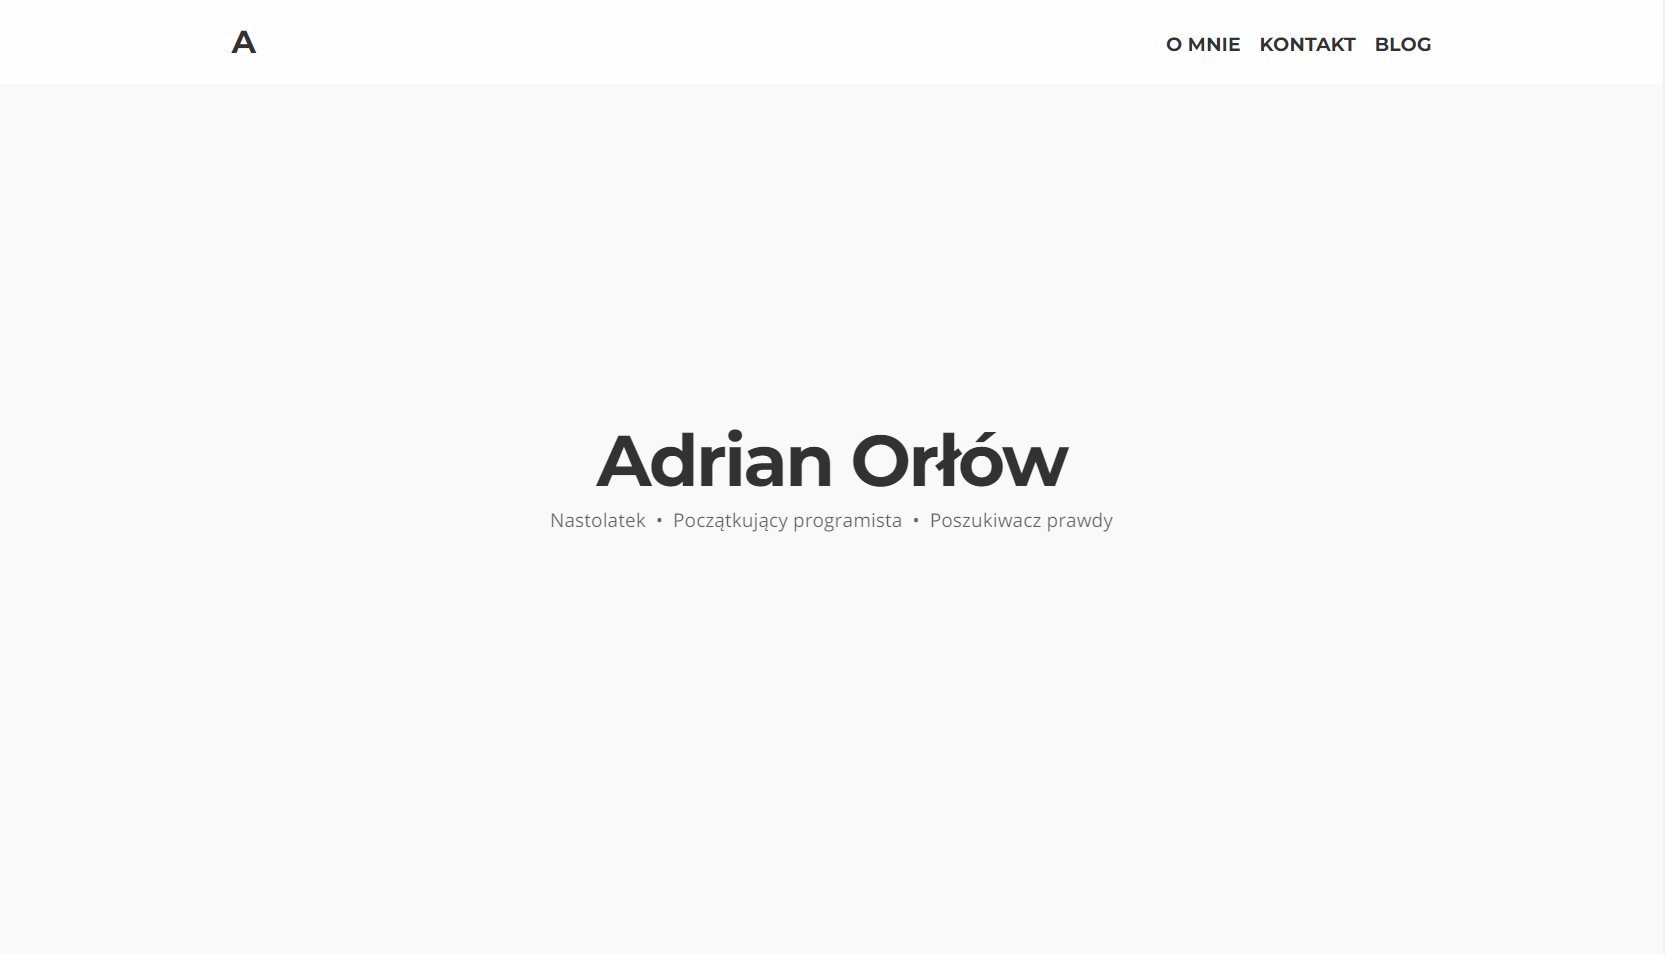
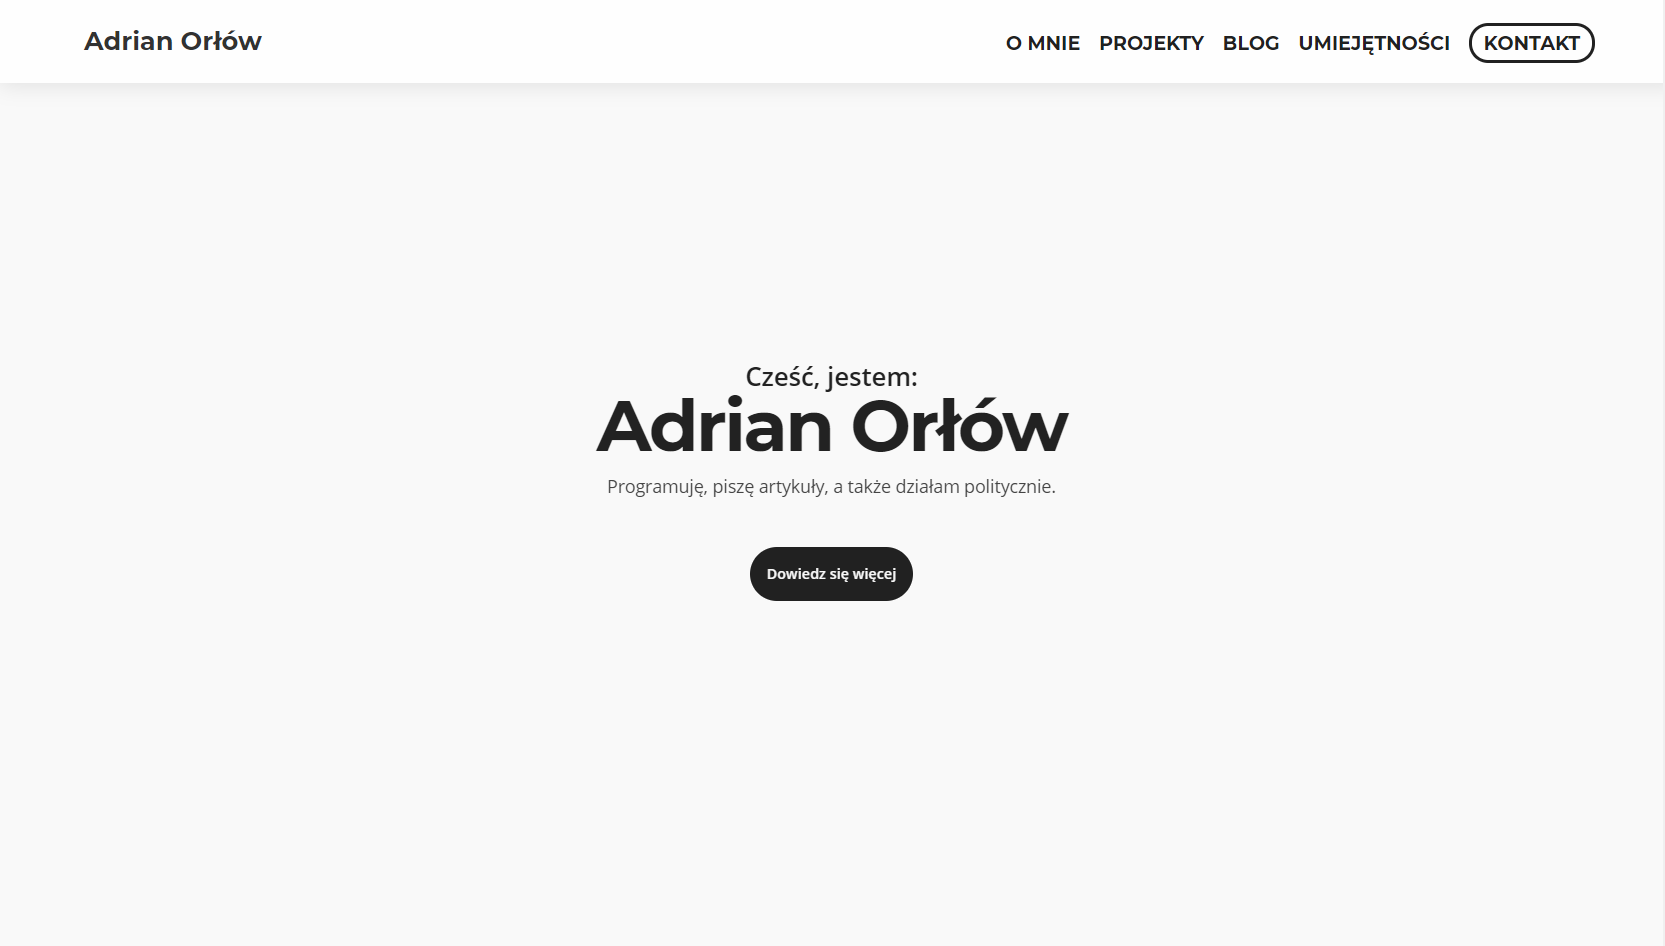
Small fix orlow.me

Changed region(s): [[0.3435, 0.3679, 0.6559, 0.6438], [0.5934, 0.0, 0.9682, 0.092], [0.0312, 0.0307, 0.1562, 0.0613]]

diff --git a/dist/css/style.min.css b/dist/css/style.min.css
@@ -1,1 +1,1 @@
-.contact__btn,.hamburger--link,.nav--link{text-transform:uppercase}a,abbr,acronym,address,applet,article,aside,audio,b,big,blockquote,body,canvas,caption,center,cite,code,dd,del,details,dfn,div,dl,dt,em,embed,fieldset,figcaption,figure,footer,form,h1,h2,h3,h4,h5,h6,header,hgroup,html,i,iframe,img,ins,kbd,label,legend,li,mark,menu,nav,object,ol,output,p,pre,q,ruby,s,samp,section,small,span,strike,strong,sub,summary,sup,table,tbody,td,tfoot,th,thead,time,tr,tt,u,ul,var,video{margin:0;padding:0;border:0;font:inherit;vertical-align:baseline}article,aside,details,figcaption,figure,footer,header,hgroup,menu,nav,section{display:block}body{line-height:1;-webkit-text-size-adjust:none;font-family:Montserrat,sans-serif;background:#fafafa}ol,ul{list-style:none}blockquote,q{quotes:none}blockquote:after,blockquote:before,q:after,q:before{content:'';content:none}table{border-collapse:collapse;border-spacing:0}a{text-decoration:none;color:#333}.a--light,.a--light:visited{color:#fafafa}.a--light:hover{text-decoration:underline}button:focus,input:focus,select:focus,textarea:focus{outline:0}input:focus::-webkit-input-placeholder{opacity:0}.header{position:fixed;top:0;line-height:80px;font-size:2em;font-weight:700;color:#333;background:#fff;z-index:10;box-shadow:0 2px 35px 0 rgba(0,0,0,.1);width:100vw}.header--container{display:flex;align-items:center;justify-content:space-between;margin:0 auto;padding:0;height:100%;width:100%;max-width:90%}.header--title{font-size:.8em}.nav--element{display:inline;margin-left:.3em}.nav--link{font-size:.6em;color:#222}.nav--link:active,.nav--link:focus,.nav--link:hover{border-width:0 0 3px;border-style:solid;border-color:rgba(51,51,51,1);outline:0;cursor:pointer}.link--last{padding:.3em .66em;border:2.5px solid #222;border-radius:1em;transition:.2s ease-in-out}.link--last:hover{border:2.5px solid #222;outline:initial;background:#222;color:#fafafa}.nav--hamburger a:first-child{z-index:1000}.nav--hamburger__content{height:100%;width:100%;z-index:100;background:#f5f5f5;position:fixed;top:0;right:0;bottom:0;left:0;display:flex;-webkit-box-orient:vertical;-webkit-box-direction:normal;-ms-flex-direction:column;flex-direction:column;-webkit-box-pack:center;-ms-flex-pack:center;justify-content:center;-webkit-box-align:center;-ms-flex-align:center;align-items:center;transition:.2s ease-in-out}.hamburger--link{font-size:.8em;font-weight:600;display:block;text-align:center}.hamburger--btn{width:1.06em;height:.8em;position:relative;-webkit-transform:rotate(0);-moz-transform:rotate(0);-o-transform:rotate(0);transform:rotate(0);-webkit-transition:.5s ease-in-out;-moz-transition:.5s ease-in-out;-o-transition:.5s ease-in-out;transition:.5s ease-in-out;cursor:pointer;z-index:1000}.hamburger--btn span{display:block;position:absolute;height:6px;width:100%;background:#222;border-radius:9px;opacity:1;left:0;-webkit-transform:rotate(0);-moz-transform:rotate(0);-o-transform:rotate(0);transform:rotate(0);-webkit-transition:.25s ease-in-out;-moz-transition:.25s ease-in-out;-o-transition:.25s ease-in-out;transition:.25s ease-in-out}.hamburger--btn span:nth-child(1){top:0}.hamburger--btn span:nth-child(2),.hamburger--btn span:nth-child(3){top:11px}.hamburger--btn span:nth-child(4){top:22px}.hamburger--btn.open span:nth-child(1),.hamburger--btn.open span:nth-child(4){top:18px;width:0%;left:50%}.hamburger--btn.open span:nth-child(2){-webkit-transform:rotate(45deg);-moz-transform:rotate(45deg);-o-transform:rotate(45deg);transform:rotate(45deg)}.hamburger--btn.open span:nth-child(3){-webkit-transform:rotate(-45deg);-moz-transform:rotate(-45deg);-o-transform:rotate(-45deg);transform:rotate(-45deg)}.section--container{max-width:90%;margin-right:auto;margin-left:auto;position:relative}.section{text-align:center;color:#333;height:auto;padding:5%}.section--title{font-size:2.3em;font-weight:700;text-align:center;margin-bottom:.4em}.section--separator{width:45px;height:2px;display:block;margin:auto auto 1.5em;border-radius:99px;background:#fff;opacity:.9}.section--subtitle{margin-bottom:3em;color:#adadad}.section--paragraph{margin-top:1.2em;font-size:1.3em;text-align:left;letter-spacing:.035em;word-spacing:.05em;line-height:1.2em;padding:0 5em}.section__hero{font-family:"Open Sans",sans-serif;color:#222;padding:0;height:100vh}.container--hero{top:50%;transform:translateY(-50%)}.hero--intro{font-size:1.6em;font-weight:600}.hero--title{font-family:Montserrat,sans-serif;font-size:4.5em;font-weight:700;letter-spacing:-.035em;line-height:1em}.hero--subtitle{font-size:1.1em;margin-top:1em;margin-bottom:4em;color:#444}.hero__btn{padding:1.2em;border-radius:2em;background:#222;font-weight:600;font-size:.9em;transition:.2s ease-in-out;color:#fafafa}.hero__btn:hover{border:3px solid #222;color:#222;background:rgba(0,0,0,0)}.section__dark{background:#222;color:#fafafa}.about{display:flex;align-items:center;justify-content:space-between;margin:0 auto;padding:0;height:100%;width:60%}.projects,.skills{display:flex;align-items:center}.about__el{cursor:pointer;height:auto;width:13em}.about__el:hover .img--about{border:5px solid #ececec}.about__el:active .img--about{border:5px solid #fff;-webkit-transform:scale(1.05);transform:scale(1.05)}.img--about{border-radius:100%;height:10em;width:auto;transition:.2s;border:5px solid transparent}.img--project,.project{transition:.2s ease-in-out}.p--about{font-size:1.2em;margin-top:1em;font-weight:600;color:#ececec}.article__title,.p--project{font-size:1.4em;font-weight:600}.projects{justify-content:space-between;margin:0 auto;padding:0;height:100%}.articles,.skills{justify-content:space-between}.p--project,.project{margin-top:1em}.project{height:17%;width:30%;cursor:pointer;margin-bottom:1em}.project:hover .img--project{transform:translateY(-3%);-webkit-box-shadow:0 10px 20px 0 rgba(209,209,209,1);-moz-box-shadow:0 10px 20px 0 rgba(209,209,209,1);box-shadow:0 10px 20px 0 rgba(209,209,209,1)}.articles,.skills{margin:2em auto 0;padding:0;height:100%}.img--project{height:100%;width:100%;border-radius:1em}.skills{width:70%}.articles,.contact{display:flex;align-items:center}.skill{width:10em;border-radius:2em}.articles{width:90%}.article{height:33%;width:25em;border-radius:.5em;overflow:hidden;background:#fff;cursor:pointer;transition:.2s;border:1px solid #ebebeb}.article:hover{-webkit-box-shadow:0 0 60px 0 rgba(0,0,0,.07);box-shadow:0 0 60px 0 rgba(0,0,0,.07)}.img--article{max-width:100%}.article__content{width:calc(85% - 2px);padding:7.5%;height:39%}.article__title{text-align:left;height:2em;max-height:2em;margin-bottom:1em}.article__lead{white-space:pre-line;max-height:5em;height:5em;text-overflow:ellipsis;margin-top:1em;text-align:left;font-size:1.1em}.article__btn{font-weight:600;text-align:left;margin-top:2em;color:#5a5a5a}.contact--map{width:100%;height:25em}.contact{justify-content:space-between;margin:2em auto 0;padding:0;height:100%;width:70%;flex-wrap:wrap}.contact__el--top{width:calc((100% - 30px)/ 2);position:relative}.contact__el--center{width:100%;position:relative;margin-top:1.5em}.contact__label{display:block;text-align:left;color:#555;line-height:1.5;font-weight:600}.contact__input{display:block;width:90%;background:#f2f2f2;color:#686868;transition:all .4s;border:none;padding:5%;font-size:1.4em;margin-top:.5em;border-radius:2px}.contact__input:focus{background:#e6e6e6;border:none}.contact__textarea{max-width:95%;min-width:95%;min-height:5em;font-family:Montserrat}.contact__el--center .contact__input{padding:2.5%;width:95%}.contact__btn{margin-top:1.5em;padding:1em;font-size:1.2em;font-weight:600;margin-left:auto;background:#eaeaea;cursor:pointer;-webkit-box-shadow:0 0 60px 0 rgba(0,0,0,.07);box-shadow:0 0 60px 0 rgba(0,0,0,.07);width:15%;transition:.2s ease-in-out;border-radius:2px}.contact__btn:hover{background:#dedede}.icon{text-decoration:none;position:relative}.icon:before{font-family:FontAwesome;font-style:normal;font-weight:400;text-transform:none!important}.icon>.label{display:none}.footer{background:#111;color:#fafafa;width:100%;height:10em;font-size:1.5em}.footer__links{display:flex;align-items:center;justify-content:center;font-size:1.5em;margin-left:0;vertical-align:middle;height:100%}.footer__links a li{padding:.4em;width:1em;text-align:center;border-radius:.5em;transition:.2s;cursor:pointer;margin-right:.2em}.footer__links li:hover{background:#222}.footer__links a li i{color:#ececec;text-decoration:none}.footer__links a:last-child li{margin-right:0}.hidden{display:none}@media (max-width:1600px){.article{width:23em}}@media (max-width:1500px){.article{width:22em}}@media (max-width:1400px){.article{width:21em}}@media (max-width:1300px){.about{width:70%}.skills{width:80%}.articles{width:75%}.articles a:last-child{display:none}.article{width:21em}}@media (max-width:1200px){.about{width:80%}.skills{width:90%}}@media (max-width:1100px){.about{width:100%}.articles{width:85%}}@media (max-width:1000px){.about{width:100%}.header--nav{display:none}.nav--hamburger{display:block}.skill{width:9.5em}.articles{width:100%}}@media (max-width:900px){.skill{width:8em}}@media (max-width:800px){.skill{width:7em;border-radius:1em}}@media (max-width:768px){.about,.articles,.projects{display:block}.about a .p--about,.article,.project{margin-bottom:2em}.article,.contact,.project{width:100%}.hero--title{font-size:3em}.hero--intro{font-size:1.4em}.hero--subtitle{font-size:.9em}.footer{font-size:1.2em}.header--container{max-width:85%}.section{padding:10% 0!important}.section--title{font-size:2em}.section--subtitle{font-size:.9em}.contact--map{height:15em}.contact__label{font-size:.8em}.contact__btn{width:20%}.skill{width:6em;border-radius:1em}}@media (max-width:550px){.skill{width:5em}}
+.contact__btn,.hamburger--link,.nav--link{text-transform:uppercase}a,abbr,acronym,address,applet,article,aside,audio,b,big,blockquote,body,canvas,caption,center,cite,code,dd,del,details,dfn,div,dl,dt,em,embed,fieldset,figcaption,figure,footer,form,h1,h2,h3,h4,h5,h6,header,hgroup,html,i,iframe,img,ins,kbd,label,legend,li,mark,menu,nav,object,ol,output,p,pre,q,ruby,s,samp,section,small,span,strike,strong,sub,summary,sup,table,tbody,td,tfoot,th,thead,time,tr,tt,u,ul,var,video{margin:0;padding:0;border:0;font:inherit;vertical-align:baseline}article,aside,details,figcaption,figure,footer,header,hgroup,menu,nav,section{display:block}body{line-height:1;-webkit-text-size-adjust:none;font-family:Montserrat,sans-serif;background:#fafafa}ol,ul{list-style:none}blockquote,q{quotes:none}blockquote:after,blockquote:before,q:after,q:before{content:'';content:none}table{border-collapse:collapse;border-spacing:0}a{text-decoration:none;color:#333}.a--light,.a--light:visited{color:#fafafa}.a--light:hover{text-decoration:underline}button:focus,input:focus,select:focus,textarea:focus{outline:0}input:focus::-webkit-input-placeholder{opacity:0}.header{position:fixed;top:0;line-height:80px;font-size:2em;font-weight:700;color:#333;background:#fff;z-index:10;box-shadow:0 2px 35px 0 rgba(0,0,0,.1);width:100vw}.header--container{display:flex;align-items:center;justify-content:space-between;margin:0 auto;padding:0;height:100%;width:100%;max-width:90%}.header--title{font-size:.8em}.nav--element{display:inline;margin-left:.3em}.nav--link{font-size:.6em;color:#222}.nav--link:active,.nav--link:focus,.nav--link:hover{border-width:0 0 3px;border-style:solid;border-color:rgba(51,51,51,1);outline:0;cursor:pointer}.link--last{padding:.3em .66em;border:2.5px solid #222;border-radius:1em;transition:.2s ease-in-out}.link--last:hover{border:2.5px solid #222;outline:initial;background:#222;color:#fafafa}.nav--hamburger a:first-child{z-index:1000}.nav--hamburger__content{height:100%;width:100%;z-index:100;background:#f5f5f5;position:fixed;top:0;right:0;bottom:0;left:0;display:flex;-webkit-box-orient:vertical;-webkit-box-direction:normal;-ms-flex-direction:column;flex-direction:column;-webkit-box-pack:center;-ms-flex-pack:center;justify-content:center;-webkit-box-align:center;-ms-flex-align:center;align-items:center;transition:.2s ease-in-out}.hamburger--link{font-size:.8em;font-weight:600;display:block;text-align:center}.hamburger--btn{width:1.06em;height:.8em;position:relative;-webkit-transform:rotate(0);-moz-transform:rotate(0);-o-transform:rotate(0);transform:rotate(0);-webkit-transition:.5s ease-in-out;-moz-transition:.5s ease-in-out;-o-transition:.5s ease-in-out;transition:.5s ease-in-out;cursor:pointer;z-index:1000}.hamburger--btn span{display:block;position:absolute;height:6px;width:100%;background:#222;border-radius:9px;opacity:1;left:0;-webkit-transform:rotate(0);-moz-transform:rotate(0);-o-transform:rotate(0);transform:rotate(0);-webkit-transition:.25s ease-in-out;-moz-transition:.25s ease-in-out;-o-transition:.25s ease-in-out;transition:.25s ease-in-out}.hamburger--btn span:nth-child(1){top:0}.hamburger--btn span:nth-child(2),.hamburger--btn span:nth-child(3){top:11px}.hamburger--btn span:nth-child(4){top:22px}.hamburger--btn.open span:nth-child(1),.hamburger--btn.open span:nth-child(4){top:18px;width:0%;left:50%}.hamburger--btn.open span:nth-child(2){-webkit-transform:rotate(45deg);-moz-transform:rotate(45deg);-o-transform:rotate(45deg);transform:rotate(45deg)}.hamburger--btn.open span:nth-child(3){-webkit-transform:rotate(-45deg);-moz-transform:rotate(-45deg);-o-transform:rotate(-45deg);transform:rotate(-45deg)}.section--container{max-width:90%;margin-right:auto;margin-left:auto;position:relative}.section{text-align:center;color:#333;height:auto;padding:5%}.section--title{font-size:2.3em;font-weight:700;text-align:center;margin-bottom:.4em}.section--separator{width:45px;height:2px;display:block;margin:auto auto 1.5em;border-radius:99px;background:#fff;opacity:.9}.section--subtitle{margin-bottom:3em;color:#adadad}.section--paragraph{margin-top:1.2em;font-size:1.3em;text-align:left;letter-spacing:.035em;word-spacing:.05em;line-height:1.2em;padding:0 5em}.section__hero{font-family:"Open Sans",sans-serif;color:#222;padding:0;height:100vh}.container--hero{top:50%;transform:translateY(-50%)}.hero--intro{font-size:1.6em;font-weight:600}.hero--title{font-family:Montserrat,sans-serif;font-size:4.5em;font-weight:700;letter-spacing:-.035em;line-height:1em}.hero--subtitle{font-size:1.1em;margin-top:1em;margin-bottom:4em;color:#444}.hero__btn{padding:1.2em;border-radius:2em;background:#222;font-weight:600;font-size:.9em;transition:.2s ease-in-out;color:#fafafa}.hero__btn:hover{border:3px solid #222;color:#222;background:rgba(0,0,0,0)}.section__dark{background:#222;color:#fafafa}.about{display:flex;align-items:center;justify-content:space-between;margin:0 auto;padding:0;height:100%;width:60%}.projects,.skills{display:flex;align-items:center}.about__el{cursor:pointer;height:auto;width:13em}.about__el:hover .img--about{border:5px solid #ececec}.about__el:active .img--about{border:5px solid #fff;-webkit-transform:scale(1.05);transform:scale(1.05)}.img--about{border-radius:100%;height:10em;width:auto;transition:.2s;border:5px solid transparent}.img--project,.project{transition:.2s ease-in-out}.p--about{font-size:1.2em;margin-top:1em;font-weight:600;color:#ececec}.article__title,.p--project{font-size:1.4em;font-weight:600}.projects{justify-content:space-between;margin:0 auto;padding:0;height:100%}.p--project,.project{margin-top:1em}.project{height:17%;width:30%;cursor:pointer;margin-bottom:1em}.project:hover .img--project{transform:translateY(-3%);-webkit-box-shadow:0 10px 20px 0 rgba(209,209,209,1);-moz-box-shadow:0 10px 20px 0 rgba(209,209,209,1);box-shadow:0 10px 20px 0 rgba(209,209,209,1)}.articles,.skills{justify-content:space-between;margin:2em auto 0;padding:0;height:100%}.img--project{height:100%;width:100%;border-radius:1em}.skills{width:70%}.articles,.contact{display:flex;align-items:center}.skill{width:10em;border-radius:2em}.articles{width:90%}.article{height:33%;width:25em;border-radius:.5em;overflow:hidden;background:#fff;cursor:pointer;transition:.2s;border:1px solid #ebebeb}.article:hover{-webkit-box-shadow:0 0 60px 0 rgba(0,0,0,.07);box-shadow:0 0 60px 0 rgba(0,0,0,.07)}.img--article{max-width:100%}.article__content{width:calc(85% - 2px);padding:7.5%;height:39%}.article__title{text-align:left;height:2em;max-height:2em;margin-bottom:1em}.article__lead{white-space:pre-line;max-height:5em;height:5em;text-overflow:ellipsis;margin-top:1em;text-align:left;font-size:1.1em}.article__btn{font-weight:600;text-align:left;margin-top:2em;color:#5a5a5a}.contact--map{width:100%;height:25em}.contact{justify-content:space-between;margin:2em auto 0;padding:0;height:100%;width:70%;flex-wrap:wrap}.contact__el--top{width:calc((100% - 30px)/ 2);position:relative}.contact__el--center{width:100%;position:relative;margin-top:1.5em}.contact__label{display:block;text-align:left;color:#555;line-height:1.5;font-weight:600}.contact__input{display:block;width:90%;background:#f2f2f2;color:#686868;transition:all .4s;border:none;padding:5%;font-size:1.4em;margin-top:.5em;border-radius:2px}.contact__input:focus{background:#e6e6e6;border:none}.contact__textarea{max-width:95%;min-width:95%;min-height:5em;font-family:Montserrat}.contact__el--center .contact__input{padding:2.5%;width:95%}.contact__btn{margin-top:1.5em;padding:1em;font-size:1.2em;font-weight:600;margin-left:auto;background:#eaeaea;cursor:pointer;-webkit-box-shadow:0 0 60px 0 rgba(0,0,0,.07);box-shadow:0 0 60px 0 rgba(0,0,0,.07);width:15%;transition:.2s ease-in-out;border-radius:2px}.contact__btn:hover{background:#dedede}.icon{text-decoration:none;position:relative}.icon:before{font-family:FontAwesome;font-style:normal;font-weight:400;text-transform:none!important}.icon>.label{display:none}.footer{background:#111;color:#fafafa;width:100%;height:10em;font-size:1.5em}.footer__links{display:flex;align-items:center;justify-content:center;font-size:1.5em;margin-left:0;vertical-align:middle;height:100%}.footer__links a li{padding:.4em;width:1em;text-align:center;border-radius:.5em;transition:.2s;cursor:pointer;margin-right:.2em}.footer__links li:hover{background:#222}.footer__links a li i{color:#ececec;text-decoration:none}.footer__links a:last-child li{margin-right:0}.hidden{display:none}@media (max-width:1600px){.article{width:23em}}@media (max-width:1500px){.article{width:22em}}@media (max-width:1400px){.article{width:21em}}@media (max-width:1300px){.about{width:70%}.skills{width:80%}.articles{width:75%}.articles a:last-child{display:none}.article{width:21em}}@media (max-width:1200px){.about{width:80%}.skills{width:90%}}@media (max-width:1100px){.about{width:100%}.articles{width:85%}}@media (max-width:1000px){.about{width:100%}.header--nav{display:none}.nav--hamburger{display:block}.skill{width:9.5em}.articles{width:100%}}@media (max-width:900px){.skill{width:8em}}@media (max-width:800px){.skill{width:7em;border-radius:1em}}@media (max-width:768px){.about,.articles,.projects{display:block}.about a .p--about,.article,.project{margin-bottom:2em}.article,.contact,.project{width:100%}.articles a:last-child{display:initial}.hero--title{font-size:3em}.hero--intro{font-size:1.4em}.hero--subtitle{font-size:.9em}.footer{font-size:1.2em}.header--container{max-width:85%}.section{padding:10% 0!important}.section--title{font-size:2em}.section--subtitle{font-size:.9em}.contact--map{height:15em}.contact__label{font-size:.8em}.contact__btn{width:20%}.skill{width:6em;border-radius:1em}.contact__input{font-size:1.2em;width:85%;padding:7.5%}.contact__textarea{padding:2.5%!important;width:95%!important}}@media (max-width:550px){.skill{width:5em}.contact__btn{width:30%}}

diff --git a/index.html b/index.html
@@ -104,7 +104,7 @@
 						<img class="img--about" src="./img/about/writing.jpg">
 						<p class="p--about">Prowadzę bloga</p>
 					</a>
-					<a class="about__el animated wow fadeInDown delay-1s" href="https://www.facebook.com/TheAdrik">
+					<a class="about__el animated wow fadeInDown" style="animation-delay: 750ms" href="https://www.facebook.com/TheAdrik">
 						<img class="img--about" src="./img/about/politics.jpg">
 						<p class="p--about">Działam politycznie</p>
 					</a>
